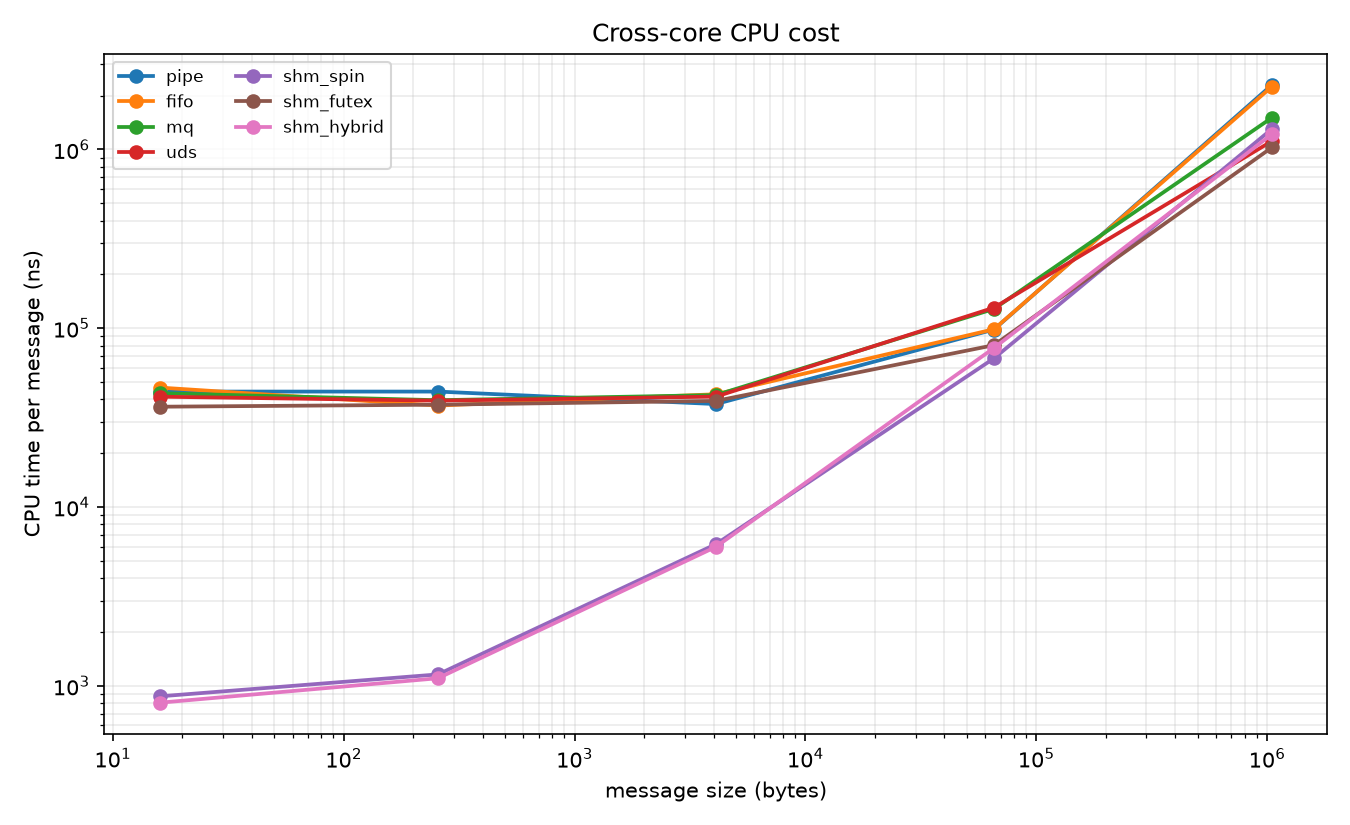
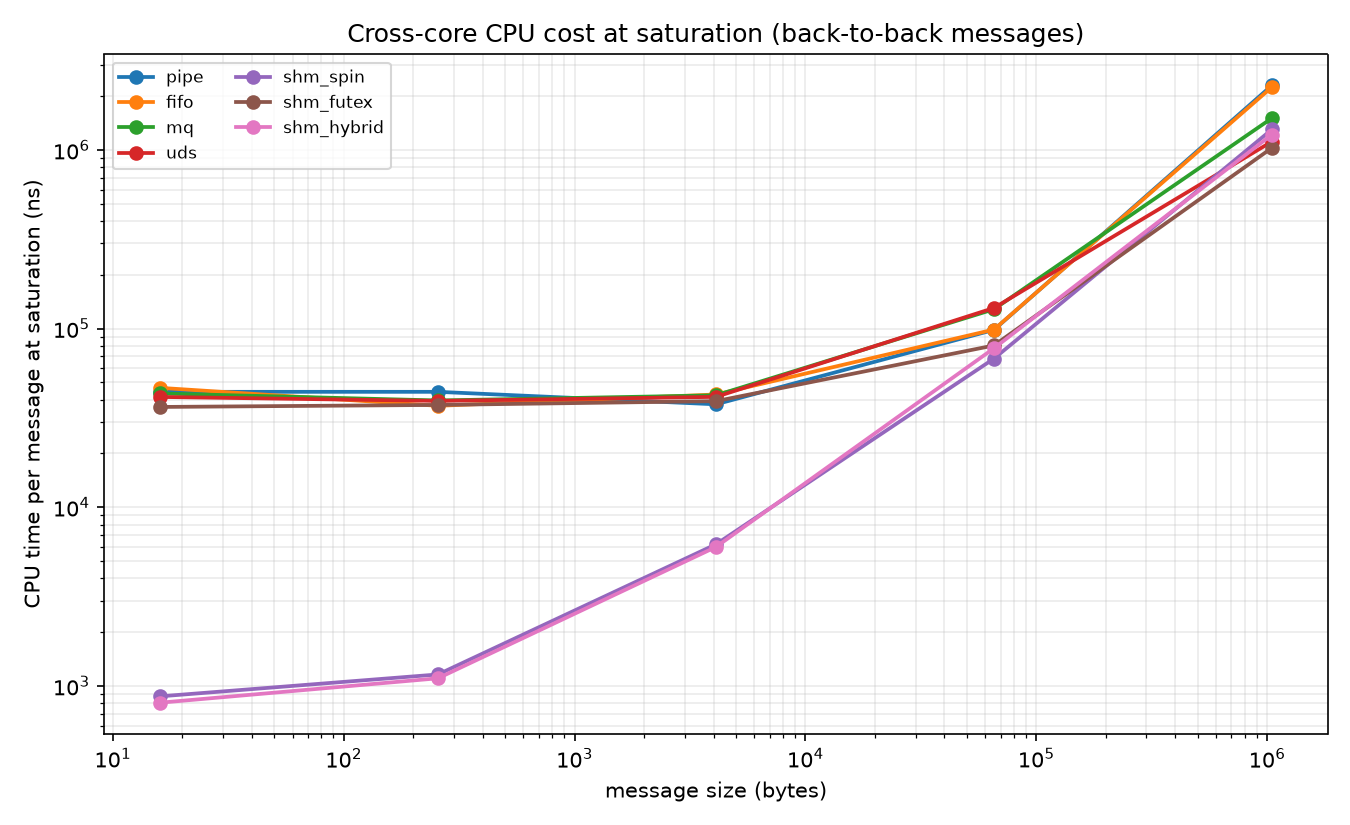
fix: refine benchmark analysis and watchdog waits

diff --git a/analysis/make_report.py b/analysis/make_report.py
@@ -7,6 +7,7 @@ from pathlib import Path
 
 import matplotlib.pyplot as plt
 import pandas as pd
+from matplotlib.ticker import NullFormatter
 
 MECHANISMS = ["pipe", "fifo", "mq", "uds", "shm_spin", "shm_futex", "shm_hybrid"]
 SHM = {"shm_spin", "shm_futex", "shm_hybrid"}
@@ -58,6 +59,7 @@ def main() -> int:
     figures.mkdir(parents=True, exist_ok=True)
     data = load(args.input)
     med = median_rows(data)
+    cross_ping_raw = data[(data["mode"] == "pingpong") & (data["pin"] == "cross")].copy()
     cross_ping = med[(med["mode"] == "pingpong") & (med["pin"] == "cross")]
     cross_stream = med[(med["mode"] == "stream") & (med["pin"] == "cross")]
 
@@ -67,20 +69,30 @@ def main() -> int:
               "Cross-core stream throughput")
     cpu = cross_ping.copy()
     cpu["cpu_ns_per_msg"] = (cpu["cpu_user_s"] + cpu["cpu_sys_s"]) * 1e9 / cpu["iters"]
-    line_plot(cpu, "size_bytes", "cpu_ns_per_msg", "CPU time per message (ns)",
-              figures / "cpu_cost_vs_size.png", "Cross-core CPU cost", log_y=True)
+    line_plot(cpu, "size_bytes", "cpu_ns_per_msg",
+              "CPU time per message at saturation (ns)",
+              figures / "cpu_cost_vs_size.png",
+              "Cross-core CPU cost at saturation (back-to-back messages)", log_y=True)
 
-    fig, ax = plt.subplots(figsize=(10, 6))
-    for mech in MECHANISMS:
-        group = cross_ping[cross_ping["mech"] == mech].copy()
-        group["cpu_ns_per_msg"] = (group["cpu_user_s"] + group["cpu_sys_s"]) * 1e9 / group["iters"]
-        ax.plot(group["p50_ns"], group["cpu_ns_per_msg"], marker="o", linewidth=1.5,
-                label=mech)
-    ax.set_xscale("log"); ax.set_yscale("log")
-    ax.set_xlabel("p50 RTT (ns)"); ax.set_ylabel("CPU time per message (ns)")
-    ax.set_title("Latency–CPU trade-off, cross-core ping-pong")
-    ax.grid(True, which="both", alpha=0.25); ax.legend(ncol=2, fontsize=8)
-    fig.tight_layout(); fig.savefig(figures / "latency_vs_cpu_tradeoff.png", dpi=150); plt.close(fig)
+    trade = cross_ping[cross_ping["size_bytes"].isin([16, 4096, 65536])]
+    fig, axes = plt.subplots(1, 3, figsize=(14, 4.8), sharex=False, sharey=False)
+    for ax, size in zip(axes, [16, 4096, 65536]):
+        group = trade[trade["size_bytes"] == size]
+        for mech in MECHANISMS:
+            point = group[group["mech"] == mech]
+            if not point.empty:
+                ax.scatter(point["p50_ns"], point["cpu_pct"], s=55, label=mech)
+        ax.set_xscale("log"); ax.set_yscale("log")
+        ax.set_title(f"{size} bytes")
+        ax.set_xlabel("p50 RTT (ns)")
+        ax.set_ylabel("CPU utilisation (%)")
+        ax.grid(True, which="both", alpha=0.25)
+        ax.xaxis.set_minor_formatter(NullFormatter())
+    axes[0].legend(ncol=2, fontsize=7)
+    fig.suptitle("Latency–CPU utilisation trade-off, cross-core ping-pong")
+    fig.tight_layout()
+    fig.savefig(figures / "latency_vs_cpu_tradeoff.png", dpi=150)
+    plt.close(fig)
 
     tail = cross_ping.copy()
     tail["tail_ratio"] = tail["p99_ns"] / tail["p50_ns"]
@@ -121,30 +133,31 @@ def main() -> int:
     lines = ["# Measured summary", "", "All values are medians over repetitions; source: `results/raw.csv`.", ""]
     for size in sorted(cross_ping["size_bytes"].unique()):
         lines += [f"## Cross-core ping-pong at {int(size)} bytes", "",
-                  "| Mechanism | p50 RTT (ns) | p99 RTT (ns) | CPU/msg (ns) | ctx/msg |",
-                  "|---|---:|---:|---:|---:|"]
+                  "| Mechanism | p50 RTT median [min-max] (ns) | p99 RTT median [min-max] (ns) | CPU/msg median [min-max] (ns) |",
+                  "|---|---:|---:|---:|"]
         rows = cross_ping[cross_ping["size_bytes"] == size].copy()
         rows["cpu_ns"] = (rows["cpu_user_s"] + rows["cpu_sys_s"]) * 1e9 / rows["iters"]
         for _, row in rows.sort_values("p50_ns").iterrows():
-            lines.append(f"| {row.mech} | {row.p50_ns:.1f} | {row.p99_ns:.1f} | {row.cpu_ns:.1f} | {row.ctx_per_msg:.3f} |")
+            raw = cross_ping_raw[(cross_ping_raw["mech"] == row.mech) &
+                                 (cross_ping_raw["size_bytes"] == size)].copy()
+            raw["cpu_ns"] = (raw["cpu_user_s"] + raw["cpu_sys_s"]) * 1e9 / raw["iters"]
+            def span(column: str) -> str:
+                return f"{row[column]:.1f} [{raw[column].min():.1f}-{raw[column].max():.1f}]"
+            lines.append(f"| {row.mech} | {span('p50_ns')} | {span('p99_ns')} | {span('cpu_ns')} |")
         lines.append("")
     lines += ["## Crossover analysis", "",
-              "Smallest measured stream size where a shared-memory variant reaches at least 20% more throughput than both pipe and UDS:"]
-    for mech in sorted(SHM):
-        found = []
-        for size in sorted(cross_stream["size_bytes"].unique()):
-            row = cross_stream[(cross_stream.mech == mech) & (cross_stream.size_bytes == size)]
-            pipe = cross_stream[(cross_stream.mech == "pipe") & (cross_stream.size_bytes == size)]
-            uds = cross_stream[(cross_stream.mech == "uds") & (cross_stream.size_bytes == size)]
-            if not row.empty and not pipe.empty and not uds.empty:
-                value = row.iloc[0].mb_per_s
-                pipe_value = pipe.iloc[0].mb_per_s
-                uds_value = uds.iloc[0].mb_per_s
-            else:
-                value = pipe_value = uds_value = 0
-            if not row.empty and not pipe.empty and not uds.empty and value >= 1.2 * pipe_value and value >= 1.2 * uds_value:
-                found.append(int(size))
-        lines.append(f"- `{mech}`: {min(found) if found else 'none found'}")
+              "No crossover was observed: shared memory leads pipe at every measured size.",
+              "The ratios below are median shared-memory throughput divided by median pipe throughput; all are above 1 at the smallest measured size."]
+    lines += ["", "| Size (bytes) | shm_spin / pipe | shm_futex / pipe | shm_hybrid / pipe |",
+              "|---:|---:|---:|---:|"]
+    for size in sorted(cross_stream["size_bytes"].unique()):
+        values = {}
+        for mech in ["pipe", "shm_spin", "shm_futex", "shm_hybrid"]:
+            values[mech] = cross_stream[(cross_stream["mech"] == mech) &
+                                        (cross_stream["size_bytes"] == size)].iloc[0]["mb_per_s"]
+        lines.append(f"| {int(size)} | {values['shm_spin']/values['pipe']:.3f} | "
+                     f"{values['shm_futex']/values['pipe']:.3f} | "
+                     f"{values['shm_hybrid']/values['pipe']:.3f} |")
     lines.append("")
     (output / "summary.md").write_text("\n".join(lines) + "\n")
     return 0

diff --git a/scripts/sanity_check_results.py b/scripts/sanity_check_results.py
@@ -35,8 +35,12 @@ def main() -> int:
             warnings.append(f"row {index} status={row['status']}")
         if row["mode"] == "pingpong" and row["p50_ns"] and float(row["p50_ns"]) > float(row["p99_ns"]):
             errors.append(f"row {index} p50 > p99")
-        if row["mode"] == "stream" and row["wall_s"] and abs(float(row["msgs_per_s"]) * float(row["wall_s"]) - int(row["iters"])) > 1:
-            warnings.append(f"row {index} throughput differs from iters/wall")
+        if row["mode"] == "stream" and row["wall_s"]:
+            expected = int(row["iters"])
+            observed = float(row["msgs_per_s"]) * float(row["wall_s"])
+            tolerance = max(1.0, expected * 0.00001)
+            if abs(observed - expected) > tolerance:
+                warnings.append(f"row {index} throughput differs from iters/wall")
     counts = Counter((r["mech"].strip(), r["mode"], r["size_bytes"]) for r in rows)
     if any(count > 1 for count in counts.values()):
         warnings.append("duplicate mechanism/mode/size combinations found")

diff --git a/src/shm_ring.h b/src/shm_ring.h
@@ -7,6 +7,7 @@
 #include <sys/syscall.h>
 #include <unistd.h>
 #include <cerrno>
+#include <time.h>
 #ifndef IPCB_RING_CAPACITY
 #define IPCB_RING_CAPACITY 262144
 #endif
@@ -21,8 +22,9 @@ struct ShmRing {
   alignas(64) uint8_t data[SHM_RING_CAPACITY];
 };
 inline int futex_wait(std::atomic<uint32_t>* p, uint32_t v) {
+  const timespec timeout{0, 100000000};
   return syscall(SYS_futex, reinterpret_cast<uint32_t*>(p), FUTEX_WAIT, v,
-                 nullptr, nullptr, 0);
+                 &timeout, nullptr, 0);
 }
 inline int futex_wake(std::atomic<uint32_t>* p) {
   return syscall(SYS_futex, reinterpret_cast<uint32_t*>(p), FUTEX_WAKE, 1,

diff --git a/results/summary.md b/results/summary.md
@@ -4,67 +4,73 @@ All values are medians over repetitions; source: `results/raw.csv`.
 
 ## Cross-core ping-pong at 16 bytes
 
-| Mechanism | p50 RTT (ns) | p99 RTT (ns) | CPU/msg (ns) | ctx/msg |
-|---|---:|---:|---:|---:|
-| shm_hybrid | 311.0 | 410.0 | 804.9 | 0.000 |
-| shm_spin | 367.0 | 497.0 | 873.5 | 0.000 |
-| shm_futex | 36433.5 | 74571.0 | 36409.6 | 2.190 |
-| uds | 39239.5 | 103044.0 | 41427.9 | 2.324 |
-| mq | 40506.5 | 100089.0 | 43323.2 | 2.186 |
-| pipe | 43844.0 | 92549.0 | 44244.4 | 2.192 |
-| fifo | 47323.5 | 98781.2 | 46577.2 | 2.191 |
+| Mechanism | p50 RTT median [min-max] (ns) | p99 RTT median [min-max] (ns) | CPU/msg median [min-max] (ns) |
+|---|---:|---:|---:|
+| shm_hybrid | 311.0 [163.0-379.0] | 410.0 [239.0-524.0] | 804.9 [449.6-946.2] |
+| shm_spin | 367.0 [338.0-399.0] | 497.0 [461.0-540.0] | 873.5 [841.5-941.4] |
+| shm_futex | 36433.5 [35041.0-43594.5] | 74571.0 [72529.4-91783.0] | 36409.6 [34026.4-42716.2] |
+| uds | 39239.5 [35543.0-46197.5] | 103044.0 [81215.3-119264.0] | 41427.9 [39105.8-49518.9] |
+| mq | 40506.5 [38641.0-49292.0] | 100089.0 [81803.0-107726.0] | 43323.2 [36601.6-47862.8] |
+| pipe | 43844.0 [36021.0-48455.0] | 92549.0 [77222.7-99146.8] | 44244.4 [35874.5-48182.6] |
+| fifo | 47323.5 [36276.0-50792.0] | 98781.2 [78508.1-116054.0] | 46577.2 [36346.9-49617.3] |
 
 ## Cross-core ping-pong at 256 bytes
 
-| Mechanism | p50 RTT (ns) | p99 RTT (ns) | CPU/msg (ns) | ctx/msg |
-|---|---:|---:|---:|---:|
-| shm_hybrid | 374.0 | 482.0 | 1102.8 | 0.000 |
-| shm_spin | 422.0 | 483.0 | 1158.6 | 0.000 |
-| uds | 36434.0 | 97805.0 | 39370.6 | 2.282 |
-| fifo | 37210.5 | 80326.2 | 36958.7 | 2.193 |
-| shm_futex | 37451.0 | 76946.4 | 37373.2 | 2.189 |
-| mq | 39574.0 | 87813.1 | 39585.8 | 2.190 |
-| pipe | 44380.0 | 89894.1 | 44248.6 | 2.192 |
+| Mechanism | p50 RTT median [min-max] (ns) | p99 RTT median [min-max] (ns) | CPU/msg median [min-max] (ns) |
+|---|---:|---:|---:|
+| shm_hybrid | 374.0 [352.0-394.0] | 482.0 [438.0-527.0] | 1102.8 [1053.1-1138.9] |
+| shm_spin | 422.0 [419.0-456.0] | 483.0 [482.0-581.0] | 1158.6 [1155.5-1277.3] |
+| uds | 36434.0 [34541.0-44945.0] | 97805.0 [79410.6-109890.0] | 39370.6 [38119.3-48149.1] |
+| fifo | 37210.5 [36330.0-44138.5] | 80326.2 [76813.8-93008.8] | 36958.7 [36246.2-43372.3] |
+| shm_futex | 37451.0 [35743.0-45855.5] | 76946.4 [75506.2-96632.7] | 37373.2 [35145.4-45164.3] |
+| mq | 39574.0 [38401.5-50209.5] | 87813.1 [82067.5-102836.0] | 39585.8 [36593.1-49410.8] |
+| pipe | 44380.0 [35713.0-55835.5] | 89894.1 [76466.7-133284.0] | 44248.6 [35384.4-60234.9] |
 
 ## Cross-core ping-pong at 4096 bytes
 
-| Mechanism | p50 RTT (ns) | p99 RTT (ns) | CPU/msg (ns) | ctx/msg |
-|---|---:|---:|---:|---:|
-| shm_hybrid | 1482.0 | 2129.1 | 5991.9 | 0.000 |
-| shm_spin | 1491.0 | 2168.1 | 6199.7 | 0.000 |
-| uds | 34549.0 | 86672.0 | 41463.4 | 2.724 |
-| pipe | 36756.0 | 78435.6 | 37673.2 | 2.194 |
-| shm_futex | 39252.0 | 78833.0 | 39236.2 | 2.191 |
-| mq | 41596.0 | 80566.1 | 42295.9 | 2.193 |
-| fifo | 42128.5 | 90878.6 | 42754.7 | 2.194 |
+| Mechanism | p50 RTT median [min-max] (ns) | p99 RTT median [min-max] (ns) | CPU/msg median [min-max] (ns) |
+|---|---:|---:|---:|
+| shm_hybrid | 1482.0 [1355.0-1600.0] | 2129.1 [1726.0-4033.2] | 5991.9 [5644.4-7028.8] |
+| shm_spin | 1491.0 [360.0-1662.0] | 2168.1 [1713.0-3358.0] | 6199.7 [5124.2-6593.3] |
+| uds | 34549.0 [24670.5-45514.5] | 86672.0 [84547.7-102890.0] | 41463.4 [33235.8-53880.8] |
+| pipe | 36756.0 [36069.5-48726.0] | 78435.6 [76488.0-99848.1] | 37673.2 [37468.8-49643.6] |
+| shm_futex | 39252.0 [35884.0-49440.0] | 78833.0 [76330.8-99369.4] | 39236.2 [36807.2-50857.5] |
+| mq | 41596.0 [38066.0-53333.0] | 80566.1 [78889.1-108588.0] | 42295.9 [38883.7-53935.6] |
+| fifo | 42128.5 [36160.0-52013.5] | 90878.6 [77353.6-109266.0] | 42754.7 [37716.4-53842.1] |
 
 ## Cross-core ping-pong at 65536 bytes
 
-| Mechanism | p50 RTT (ns) | p99 RTT (ns) | CPU/msg (ns) | ctx/msg |
-|---|---:|---:|---:|---:|
-| shm_spin | 12974.0 | 22321.3 | 67887.0 | 0.000 |
-| shm_hybrid | 13701.0 | 28824.6 | 77567.3 | 0.001 |
-| shm_futex | 54429.0 | 114572.0 | 80440.4 | 2.194 |
-| pipe | 71027.5 | 136734.0 | 98342.8 | 2.197 |
-| fifo | 72784.0 | 142303.0 | 98746.8 | 2.197 |
-| mq | 76313.0 | 166826.0 | 128264.0 | 2.228 |
-| uds | 86154.5 | 179698.0 | 130363.4 | 4.418 |
+| Mechanism | p50 RTT median [min-max] (ns) | p99 RTT median [min-max] (ns) | CPU/msg median [min-max] (ns) |
+|---|---:|---:|---:|
+| shm_spin | 12974.0 [5400.0-17363.0] | 22321.3 [20344.4-50980.7] | 67887.0 [64675.0-93590.0] |
+| shm_hybrid | 13701.0 [11860.0-17363.0] | 28824.6 [21197.2-52089.0] | 77567.3 [67147.0-96133.6] |
+| shm_futex | 54429.0 [49293.5-59605.0] | 114572.0 [103759.0-120524.0] | 80440.4 [74166.5-85758.4] |
+| pipe | 71027.5 [67166.0-77810.5] | 136734.0 [128328.0-153455.0] | 98342.8 [94829.8-106458.3] |
+| fifo | 72784.0 [69625.5-80570.5] | 142303.0 [136445.0-161844.0] | 98746.8 [97909.7-110831.4] |
+| mq | 76313.0 [61441.5-84809.5] | 166826.0 [128552.0-193872.0] | 128264.0 [106219.9-140303.4] |
+| uds | 86154.5 [81587.5-91878.0] | 179698.0 [156314.0-195291.0] | 130363.4 [123146.4-135630.2] |
 
 ## Cross-core ping-pong at 1048576 bytes
 
-| Mechanism | p50 RTT (ns) | p99 RTT (ns) | CPU/msg (ns) | ctx/msg |
-|---|---:|---:|---:|---:|
-| shm_spin | 214160.0 | 367975.0 | 1302165.0 | 0.000 |
-| shm_hybrid | 340118.0 | 697975.0 | 1218184.5 | 1.358 |
-| uds | 380286.0 | 913635.0 | 1114046.5 | 14.030 |
-| mq | 613700.0 | 1204010.0 | 1506085.0 | 10.738 |
-| shm_futex | 638788.0 | 917257.0 | 1026635.5 | 15.358 |
-| pipe | 1826590.0 | 3210030.0 | 2297871.5 | 67.876 |
-| fifo | 1840800.0 | 3062590.0 | 2247642.5 | 67.681 |
+| Mechanism | p50 RTT median [min-max] (ns) | p99 RTT median [min-max] (ns) | CPU/msg median [min-max] (ns) |
+|---|---:|---:|---:|
+| shm_spin | 214160.0 [186028.0-261703.0] | 367975.0 [288146.0-665597.0] | 1302165.0 [1101869.5-1584743.5] |
+| shm_hybrid | 340118.0 [301634.0-354066.0] | 697975.0 [632055.0-706792.0] | 1218184.5 [1028758.5-1378273.5] |
+| uds | 380286.0 [345571.0-497508.0] | 913635.0 [886963.0-1567540.0] | 1114046.5 [1007357.0-1294385.0] |
+| mq | 613700.0 [585696.0-655979.0] | 1204010.0 [1134310.0-1378880.0] | 1506085.0 [1430982.5-1550345.0] |
+| shm_futex | 638788.0 [627711.0-716338.0] | 917257.0 [898084.0-1054950.0] | 1026635.5 [976482.0-1152464.5] |
+| pipe | 1826590.0 [1785240.0-1980680.0] | 3210030.0 [2812190.0-3652820.0] | 2297871.5 [2204734.5-2530583.5] |
+| fifo | 1840800.0 [1787670.0-2013440.0] | 3062590.0 [2749530.0-3673330.0] | 2247642.5 [2183588.5-2410272.5] |
 
 ## Crossover analysis
 
-Smallest measured stream size where a shared-memory variant reaches at least 20% more throughput than both pipe and UDS:
-- `shm_futex`: 16
-- `shm_hybrid`: 16
-- `shm_spin`: 16
+No crossover was observed: shared memory leads pipe at every measured size.
+The ratios below are median shared-memory throughput divided by median pipe throughput; all are above 1 at the smallest measured size.
+
+| Size (bytes) | shm_spin / pipe | shm_futex / pipe | shm_hybrid / pipe |
+|---:|---:|---:|---:|
+| 16 | 2.873 | 1.540 | 2.945 |
+| 256 | 2.735 | 1.162 | 2.756 |
+| 4096 | 1.886 | 1.160 | 1.659 |
+| 65536 | 2.212 | 1.419 | 2.009 |
+| 1048576 | 3.572 | 2.267 | 2.610 |

diff --git a/docs/RESULTS.md b/docs/RESULTS.md
@@ -37,21 +37,36 @@ pipe       65536       67471.0
 The balanced score uses p99, CPU/msg, and context switches; the displayed p50
 is a readable ranking column, not the complete score.
 
+The generated summary reports every quoted latency and CPU median with its
+five-repetition min-max range. For example, at 16 bytes `shm_hybrid` is
+311 ns [163-379] and `shm_spin` is 367 ns [338-399]; at 1 MiB stream,
+`shm_spin` is 2212.17 MB/s [1755.43-2281.31], `shm_hybrid` is 1616.25 MB/s
+[1386.64-1837.06], and pipe is 619.33 MB/s [554.78-630.23].
+
+## Same-core results
+
+Same-core ping-pong suggests three distinct regimes: pipe/MQ/UDS are roughly
+3-8 us RTT, `shm_hybrid` is roughly 190 us RTT, and `shm_spin` is roughly
+8 ms RTT. These are hypotheses supported by the medians, not proven causes.
+The `shm_spin` rows use 500 iterations and 50 warm-up messages; the other
+same-core mechanisms, including `shm_hybrid`, use 20,000 iterations and 2,000
+warm-up messages. Spin CPU cost at low message rates is not measured here:
+the workload is back-to-back. The spin window is an iteration count whose
+duration depends on the CPU, and all results are WSL2/virtualized.
+
 ## Anomalies
 
-- `scripts/sanity_check_results.py` reports two throughput/wall consistency
-  warnings, at rows 121 and 185 (FIFO and pipe, 256-byte stream). The stored
-  throughput differs from `iters / wall_s` by more than one message, so these
-  rows should be treated as instrumentation/accounting anomalies rather than
-  discarded benchmark failures.
+- The sanity checker permits a 0.001% throughput/wall tolerance. Rows 121 and
+  185 (FIFO and pipe, 256-byte stream) agree within that tolerance and are not
+  anomalies.
 - It reports duplicate mechanism/mode/size combinations because repetitions are
   intentionally represented as separate rows. There are no missing combinations
   and all 413 statuses are `ok`.
 - WSL2 virtualization is reported as an expected warning.
-- At 16-byte cross-core ping-pong, `shm_hybrid` has the lowest median p50 RTT
-  (311 ns), followed by `shm_spin` (367 ns). Thus `shm_spin` is not the
-  fastest at this size; the hybrid's short polling/futex policy is a measured
-  result, not proof of a universal cause.
+- At 16-byte cross-core ping-pong, `shm_hybrid` has median p50 RTT 311 ns
+  (min-max 163-379 ns), while `shm_spin` has 367 ns (338-399 ns). With five
+  repetitions and overlapping min-max ranges, they are statistically
+  indistinguishable; the data does not support claiming that hybrid beats spin.
 - Cross-core p50 repetition CV exceeds 20% for `shm_spin` at 4096 bytes
   (40.9%), `shm_spin` at 65536 bytes (35.3%), `shm_hybrid` at 16 bytes
   (27.4%), and UDS at 4096 bytes (25.8%). This supports a variability
@@ -62,10 +77,10 @@ is a readable ranking column, not the complete score.
   1.56 for `shm_hybrid`, and 1.55 for `shm_spin`. The largest observed ratio
   is 4.76 for `shm_spin`. These are measured tail amplifications, not proof
   of a particular kernel mechanism.
-- Same-core `shm_spin` rows use the safety cap of 500 iterations and 50
-  warm-up messages. Same-core `shm_hybrid` rows use the default 20,000
-  iterations and 2,000 warm-up, as do the other same-core mechanisms. Any
-  comparison across those rows must account for the unequal workload.
+- All quoted medians should be read with their measured min-max ranges in
+  `results/summary.md`; same-core `shm_spin` rows use 500 iterations and 50
+  warm-up, while `shm_hybrid` and the other same-core mechanisms use the
+  default 20,000 and 2,000.
 
 ## Interpretation
 

diff --git a/README.md b/README.md
@@ -14,10 +14,14 @@ written from scratch; it is not copied from the reference repositories listed in
 
 The completed run contains 413 successful rows: 350 cross-core primary rows and
 63 same-core secondary rows. At 16-byte cross-core ping-pong, median p50 RTT was
-311 ns for `shm_hybrid`, 367 ns for `shm_spin`, and 43,844 ns for pipe. At
-1 MiB cross-core streaming, median throughput was 2,212.17 MB/s for `shm_spin`,
-1,616.25 MB/s for `shm_hybrid`, and 619.33 MB/s for pipe. These are observations
-from one machine, not universal performance claims.
+311 ns (163-379 ns) for `shm_hybrid`, 367 ns (338-399 ns) for `shm_spin`, and
+43,844 ns (36,021-48,455 ns) for pipe. At 1 MiB cross-core streaming, median
+throughput was 2,212.17 MB/s (1,755.43-2,281.31) for `shm_spin`, 1,616.25
+MB/s (1,386.64-1,837.06) for `shm_hybrid`, and 619.33 MB/s (554.78-630.23)
+for pipe. These are observations from one machine, not universal performance
+claims. At 16-byte cross-core ping-pong, `shm_hybrid` and `shm_spin` are
+statistically indistinguishable with five repetitions and overlapping min-max
+ranges.
 
 ## WSL2 disclaimer
 
@@ -89,8 +93,11 @@ primitive is new.
 The study uses one WSL2 host, five primary sizes, three same-core sizes, and
 five primary repetitions. `getrusage` and virtualization make CPU and scheduling
 metrics noisy. Message-queue limits, ring capacity, pinning, and scheduler
-state can change the ranking. See `docs/METHODOLOGY.md` and
-`docs/RESULTS.md`.
+state can change the ranking. Spin CPU cost at low message rates is not measured
+by this back-to-back benchmark, and the spin window is an iteration count whose
+wall-time meaning depends on the CPU. Same-core results are hypotheses under
+the WSL2/virtualized environment, not portable guarantees. See
+`docs/METHODOLOGY.md` and `docs/RESULTS.md`.
 
 Code is released under the repository licence. External projects and the paper
 listed in `docs/RELATED_WORK.md` remain the property of their respective

diff --git a/PROGRESS.md b/PROGRESS.md
@@ -53,3 +53,8 @@
 - Sanity checking reports two throughput/wall consistency warnings (FIFO and pipe at 256-byte stream), the expected repetition duplicate warning, and the expected WSL2 warning; it reports no errors.
 - Generated all seven figures, `results/summary.md`, `results/recommendation_table.md`, and the measured documentation. At 16-byte cross-core ping-pong, median p50 is 311 ns for `shm_hybrid` and 367 ns for `shm_spin`; at 1 MiB cross-core stream, median throughput is 2212.17 MB/s for `shm_spin` and 619.33 MB/s for pipe.
 - Docker is unavailable in the WSL environment, so `make docker-build`/`make docker-quick` were added but not executed. This remains a user follow-up.
+
+## Analysis corrections
+- Relaxed stream throughput consistency to a 0.001% tolerance; the previous FIFO/pipe 256-byte warnings are gone. Remaining sanity warnings are the expected repetition-duplicate and WSL2 notices.
+- Replaced the trade-off figure with three p50 RTT versus CPU-utilisation panels (16, 4096, and 65536 bytes), retained the per-message CPU figure with an explicit saturation/back-to-back label, and rewrote crossover analysis to show that shared memory leads pipe at every measured size.
+- Added same-core hypotheses and iteration-count/WSL2 limitations to the reports. `make check` passed and the permitted `make stress` passed all 10 futex and 10 hybrid repeats at 1,000,000 messages.

diff --git a/docs/METHODOLOGY.md b/docs/METHODOLOGY.md
@@ -25,6 +25,14 @@ whereas `shm_hybrid` and the other same-core mechanisms use the default 20,000
 iterations and 2,000 warm-up. Analyses must therefore compare same-core values
 with this iteration-count difference visible, not treat them as identical loads.
 
+All three shared-memory variants use the same ring layout and producer/consumer
+protocol; only the waiting policy differs (polling, futex, or hybrid). The
+diagnostic counters are incremented inside the poll/wait loop, so they measure
+the actual synchronization path rather than a separate instrumentation pass.
+The `-dirty` suffix in `git_commit` comes from the result writer observing
+uncommitted working-tree changes while benchmark result files are being
+generated.
+
 Threats to validity include WSL2 virtualization and background activity,
 unreadable CPU-governor state, frequency scaling, hyperthread placement, one
 physical machine, `getrusage` granularity, message-queue fragmentation and
